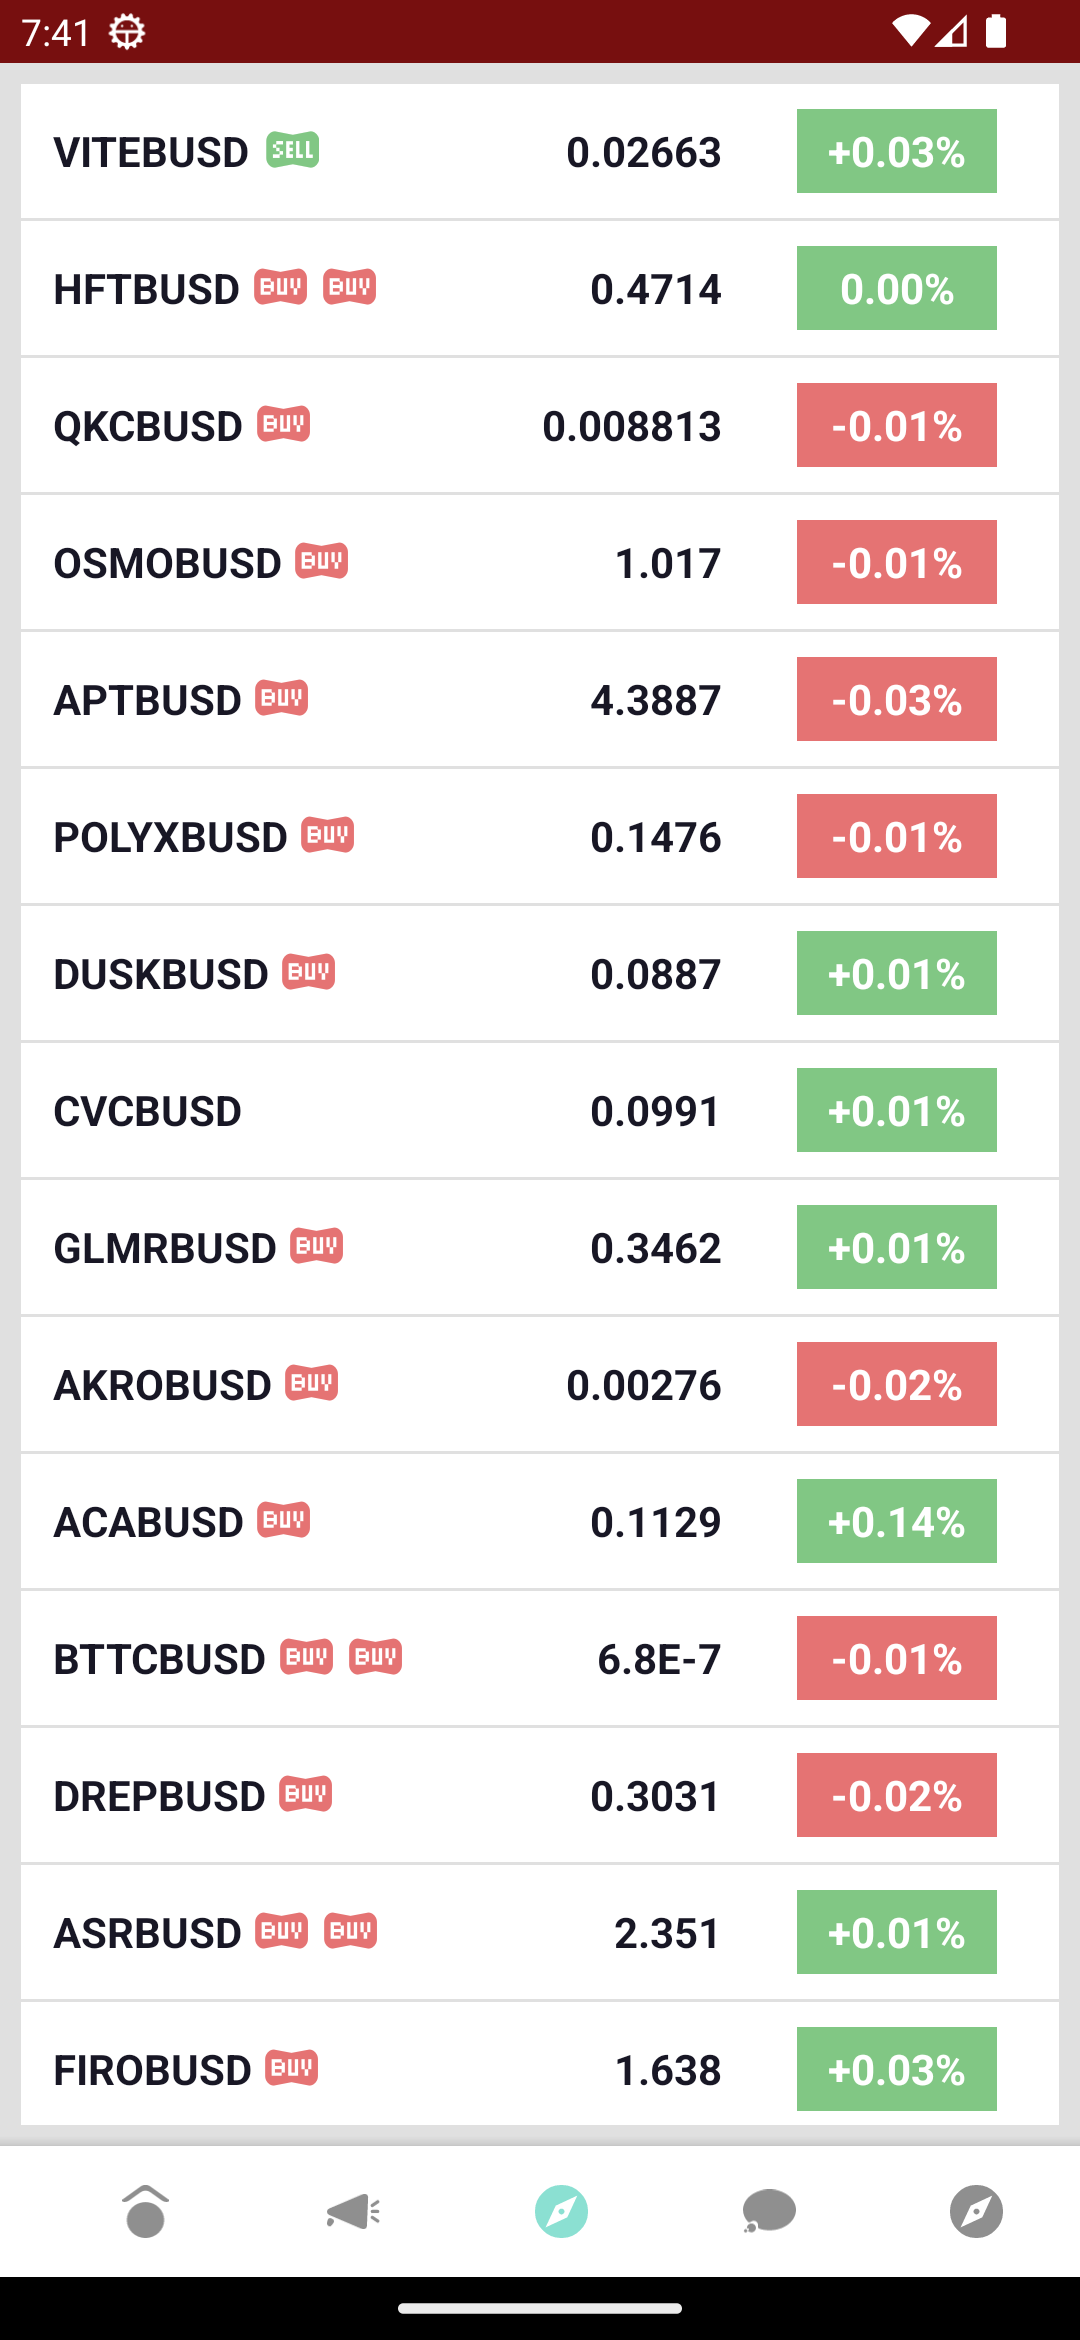
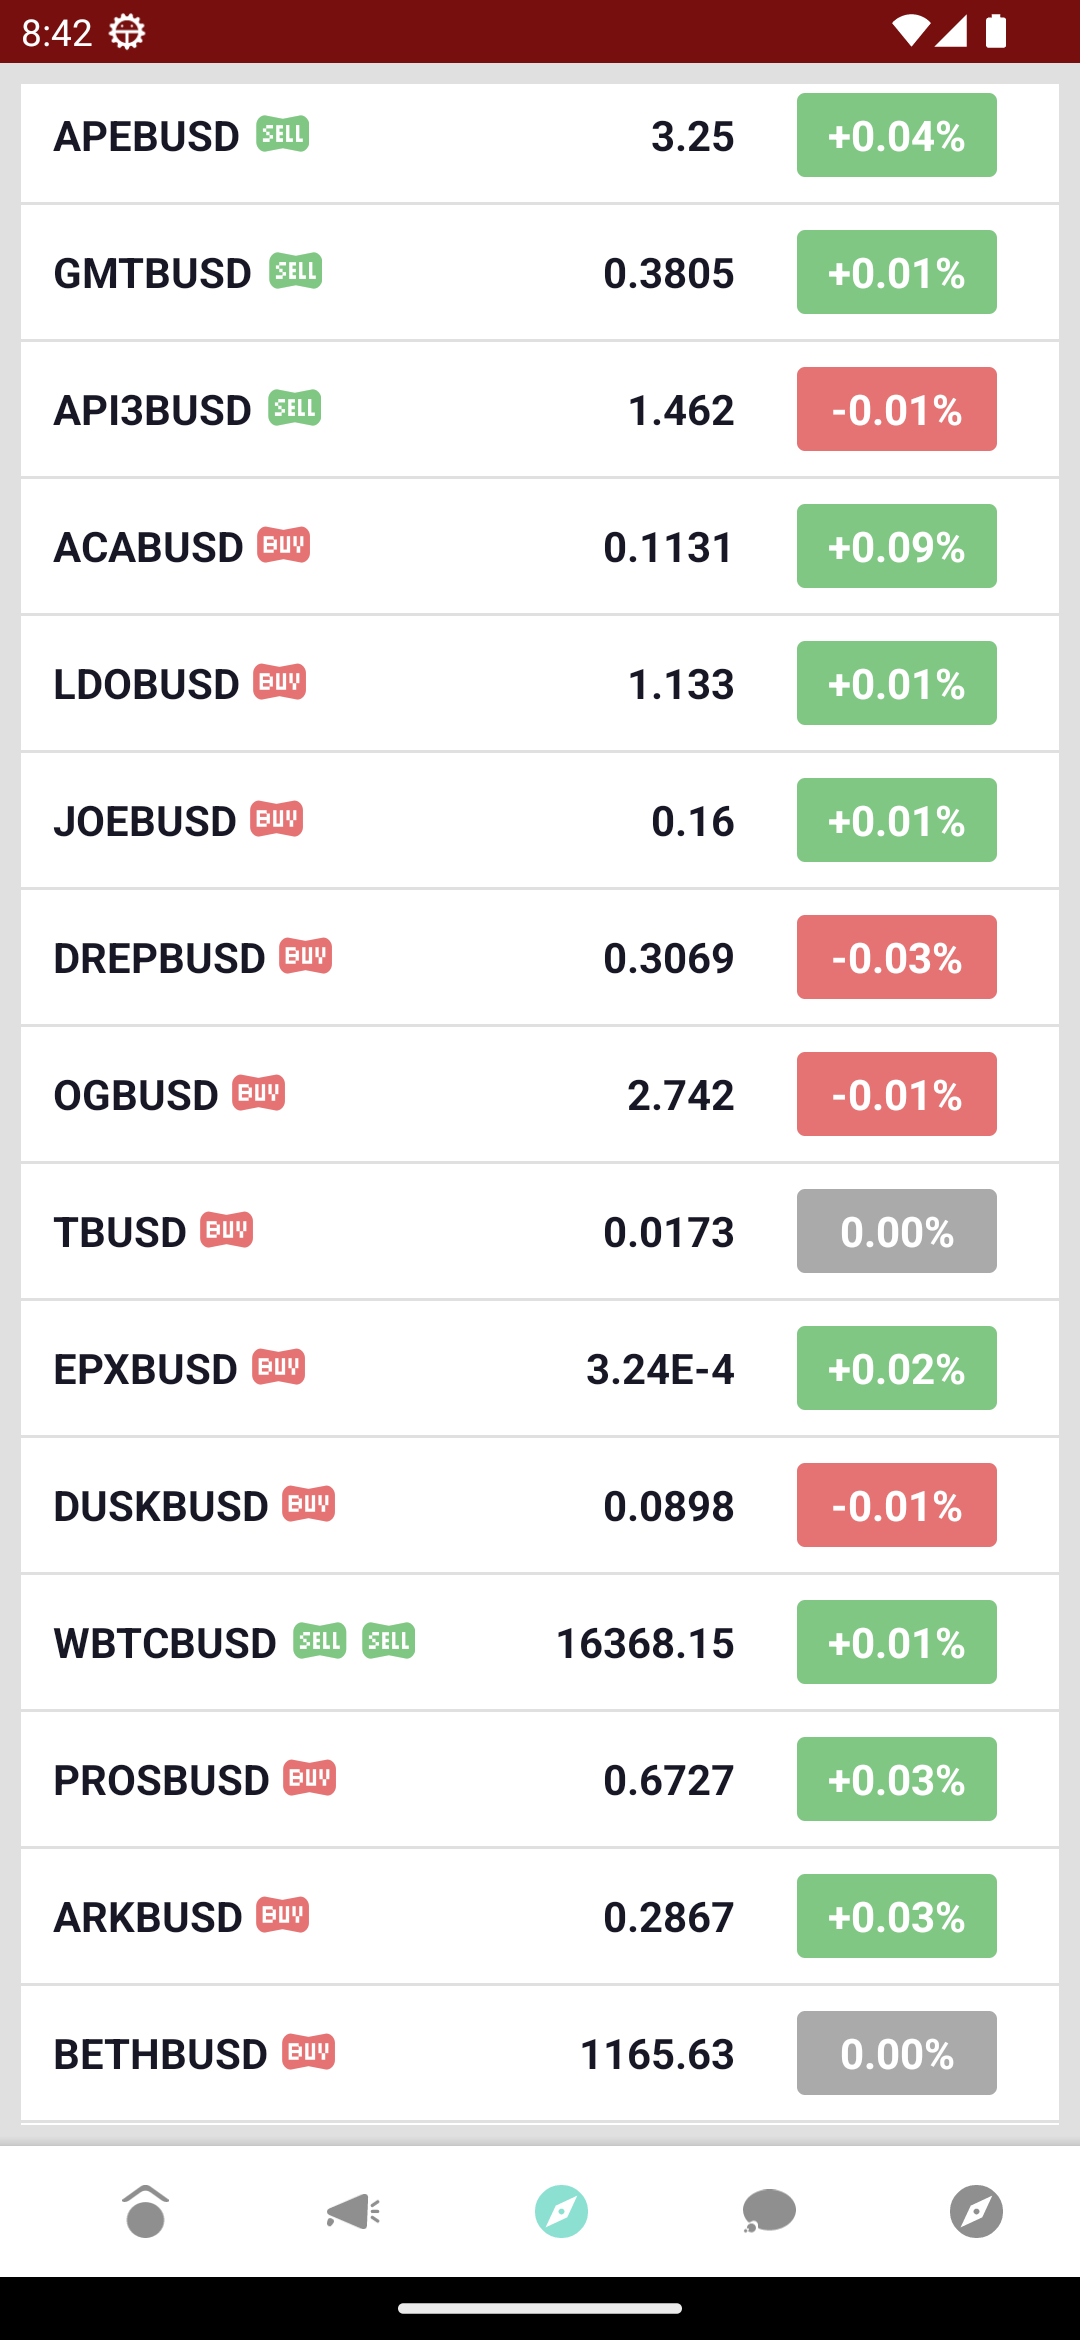
percent drawable background

diff --git a/app/src/main/java/com/kuuy/taoniu/ui/cryptos/holders/tradingview/AnalysisHolder.kt b/app/src/main/java/com/kuuy/taoniu/ui/cryptos/holders/tradingview/AnalysisHolder.kt
@@ -46,17 +46,26 @@ class AnalysisHolder(
         binding.tvPrice.text = ticker.price.toString()
         if (ticker.change > 0) {
           binding.tvPercent.let{
-            it.setBackgroundColor(binding.root.context.getColor(R.color.material_green300))
+            it.background = binding.root.context.getDrawable(R.drawable.bg_percent_green)
             it.text ="+%.2f%%".format(ticker.change)
           }
         } else {
           binding.tvPercent.let{
             if (ticker.change < 0) {
-              it.setBackgroundColor(binding.root.context.getColor(R.color.material_red300))
+              it.background = binding.root.context.getDrawable(R.drawable.bg_percent_red)
+              it.text ="%.2f%%".format(ticker.change)
+            } else {
+              it.background = binding.root.context.getDrawable(R.drawable.bg_percent_gray)
+              it.text = "0.00%"
             }
-            it.text ="%.2f%%".format(ticker.change)
           }
         }
+      }
+
+      if (ticker.state == 1) {
+        binding.tvPrice.animation = AnimationUtils.loadAnimation(binding.root.context, R.anim.blink_up)
+      } else if (ticker.state == 2) {
+        binding.tvPrice.animation = AnimationUtils.loadAnimation(binding.root.context, R.anim.blink_down)
       }
 
       if (ticker.changeState == 1) {
